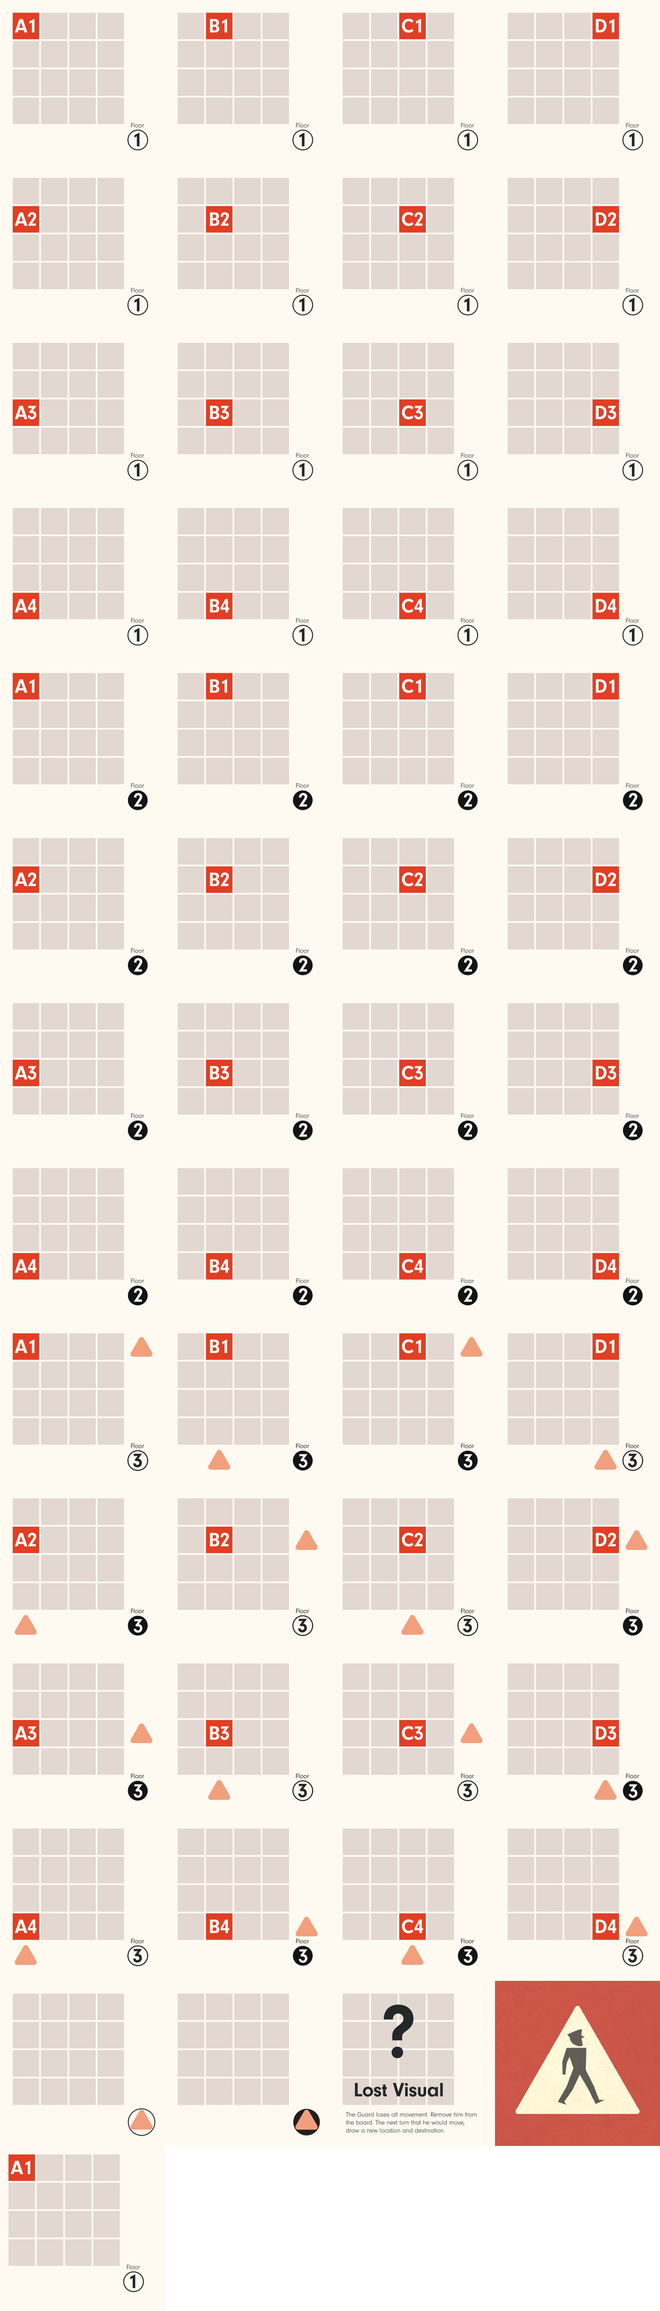
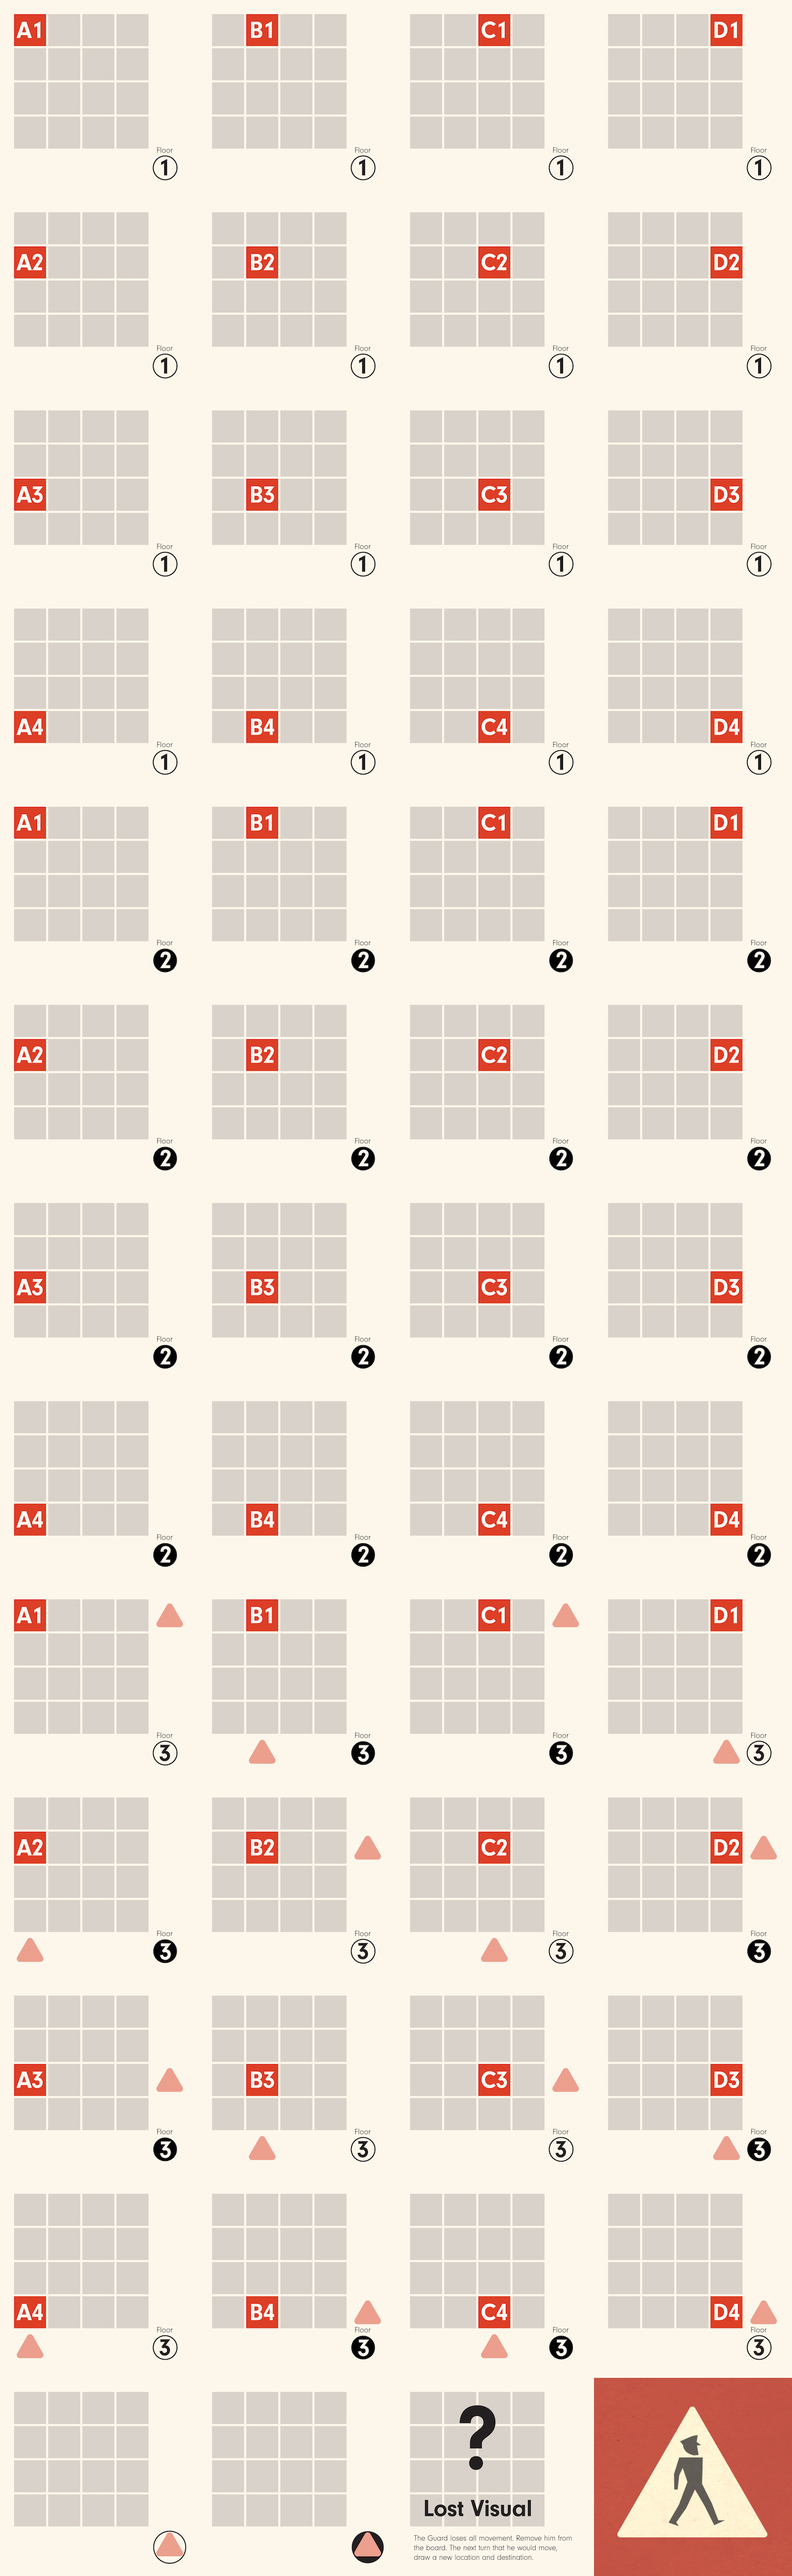
Added patrol tooltip, higher quality sprites

diff --git a/burglebros.js b/burglebros.js
@@ -547,7 +547,6 @@ function (dojo, declare) {
         },
 
         loadPatrolDiscard: function(floor, card) {
-            // var patrolDeckKey = patrolKey + '_discard';
             var patrolKey = 'patrol' + floor;
             this[patrolKey].removeAll();
     
@@ -556,6 +555,31 @@ function (dojo, declare) {
                 var cardIndex = parseInt(card.type_arg, 10) - 1;
                 var id = ((cardType - 4) * 16) + cardIndex;
                 this[patrolKey].addToStockWithId(id, card.id);
+
+                var bg_row = Math.floor(id / 4) * -100;
+                var bg_col = (id % 4) * -100;
+                var divId = this[patrolKey].getItemDivId(card.id);
+                var discardHtml = '<div class="patrol-discard-container">';
+                for(var discardId in this.gamedatas[patrolKey + '_discard']) {
+                    if (discardId != card.id) {   
+                        var discard = this.gamedatas[patrolKey + '_discard'][discardId];
+                        var discardIndex = parseInt(discard.type_arg, 10) - 1;
+                        var discard_left = Math.floor(discardIndex / 4) * 62;
+                        var discard_top = (discardIndex % 4) * 62;
+                        discardHtml += this.format_block('jstpl_patrol_tooltip_discard', {
+                            discard_left: discard_left,
+                            discard_top: discard_top
+                        });
+                    }
+                }
+                discardHtml += '</div>';
+                var tooltipHtml = this.format_block('jstpl_patrol_tooltip', {
+                    patrol_floor: floor,
+                    patrol_discards: discardHtml,
+                    bg_image: g_gamethemeurl + 'img/patrol.jpg',
+                    bg_position: bg_col.toString() + '% ' + bg_row.toString() + '%'
+                });
+                this.addTooltipHtml(divId, tooltipHtml);
             } else {
                 this[patrolKey].addToStockWithId(51, 51);
             }
@@ -579,7 +603,6 @@ function (dojo, declare) {
                         bg_image: g_gamethemeurl + 'img/' + typeInfo.name + '.jpg',
                         bg_position: bg_col.toString() + '% ' + bg_row.toString() + '%'
                     });
-                    // console.log(tooltipHtml);
                     this.addTooltipHtml(divId, tooltipHtml);
                 }
             }

diff --git a/burglebros.css b/burglebros.css
@@ -157,10 +157,30 @@
 }
 
 .tile.tooltip, .card.tooltip, #event_card_dialog.card {
-    width: 300px;
-    height: 300px;
-    background-size: 600px;
+    width: 360px;
+    height: 360px;
+    background-size: 720px;
     border-radius: 16px;
+}
+
+.patrol-discard-container {
+    position: relative;
+    left: 26px;
+    top: 26px;
+    width: 240px;
+    height: 240px;
+}
+
+.patrol-discard {
+    position: absolute;
+    color: white;
+    background-color: #cc4b33;
+    font-family: sans-serif;
+    font-size: 52px;
+    line-height: 58px;
+    text-align: center;
+    width: 58px;
+    height: 58px;
 }
 
 .tile-zone {
